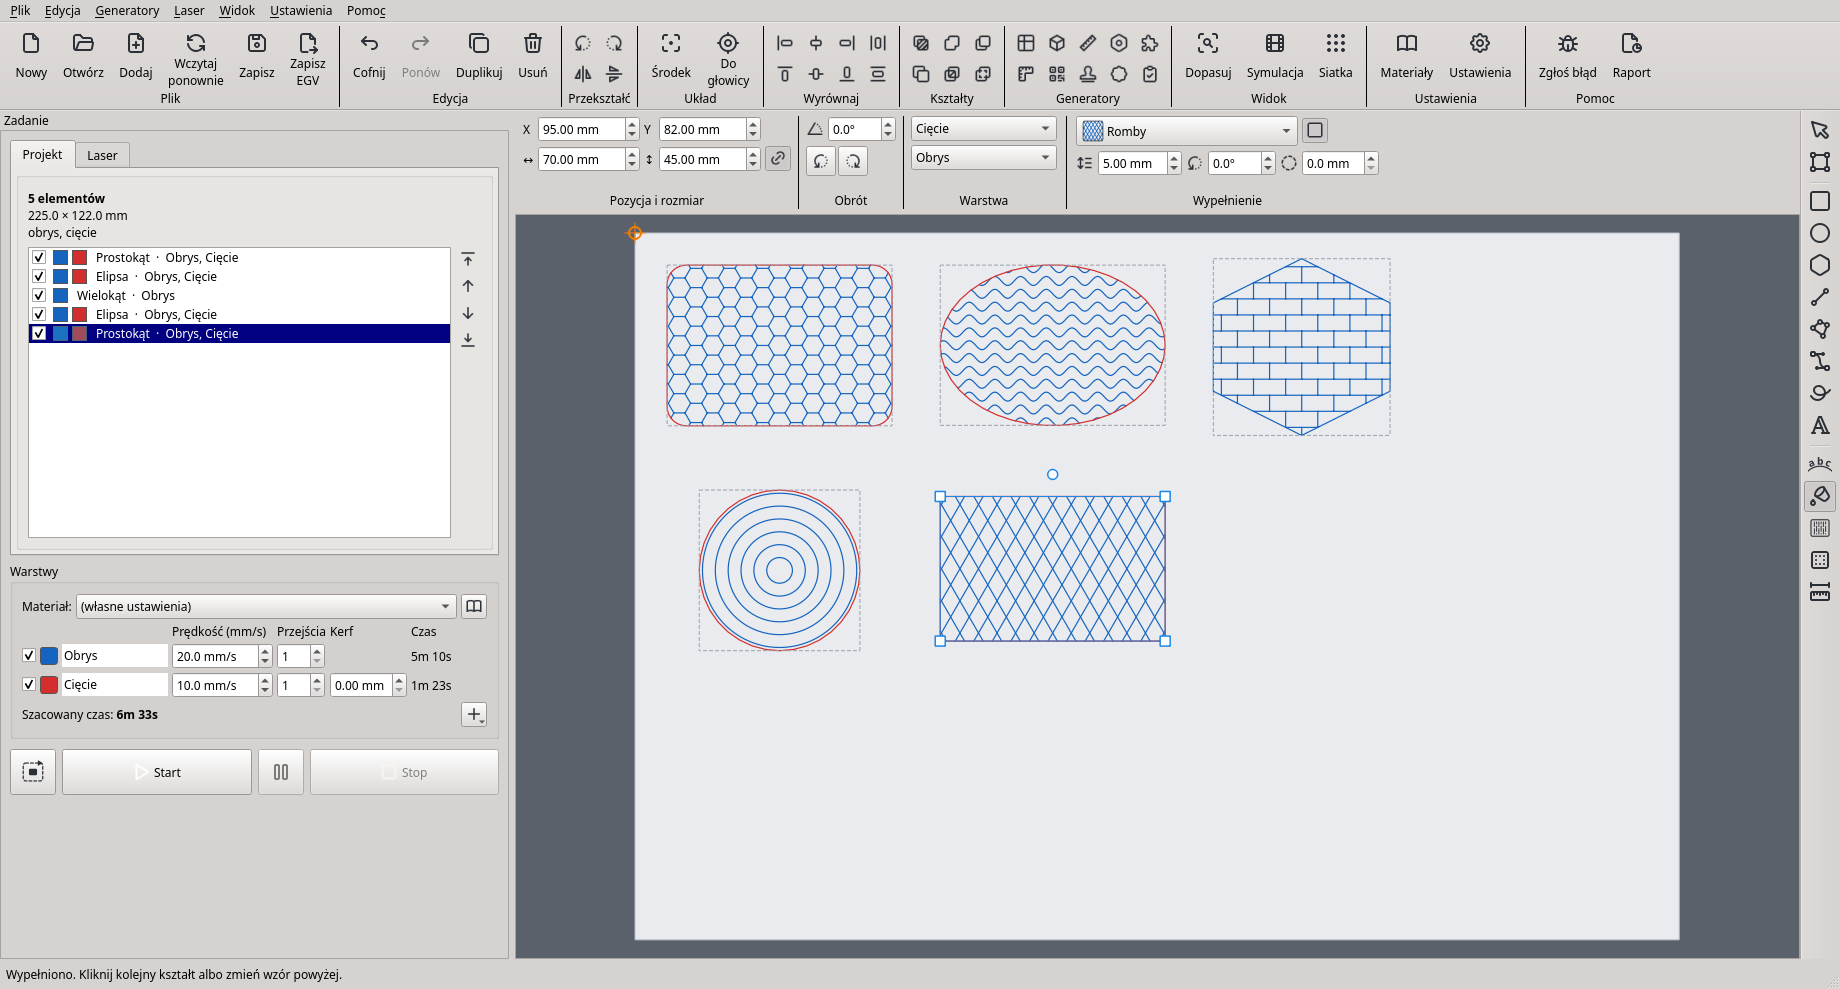
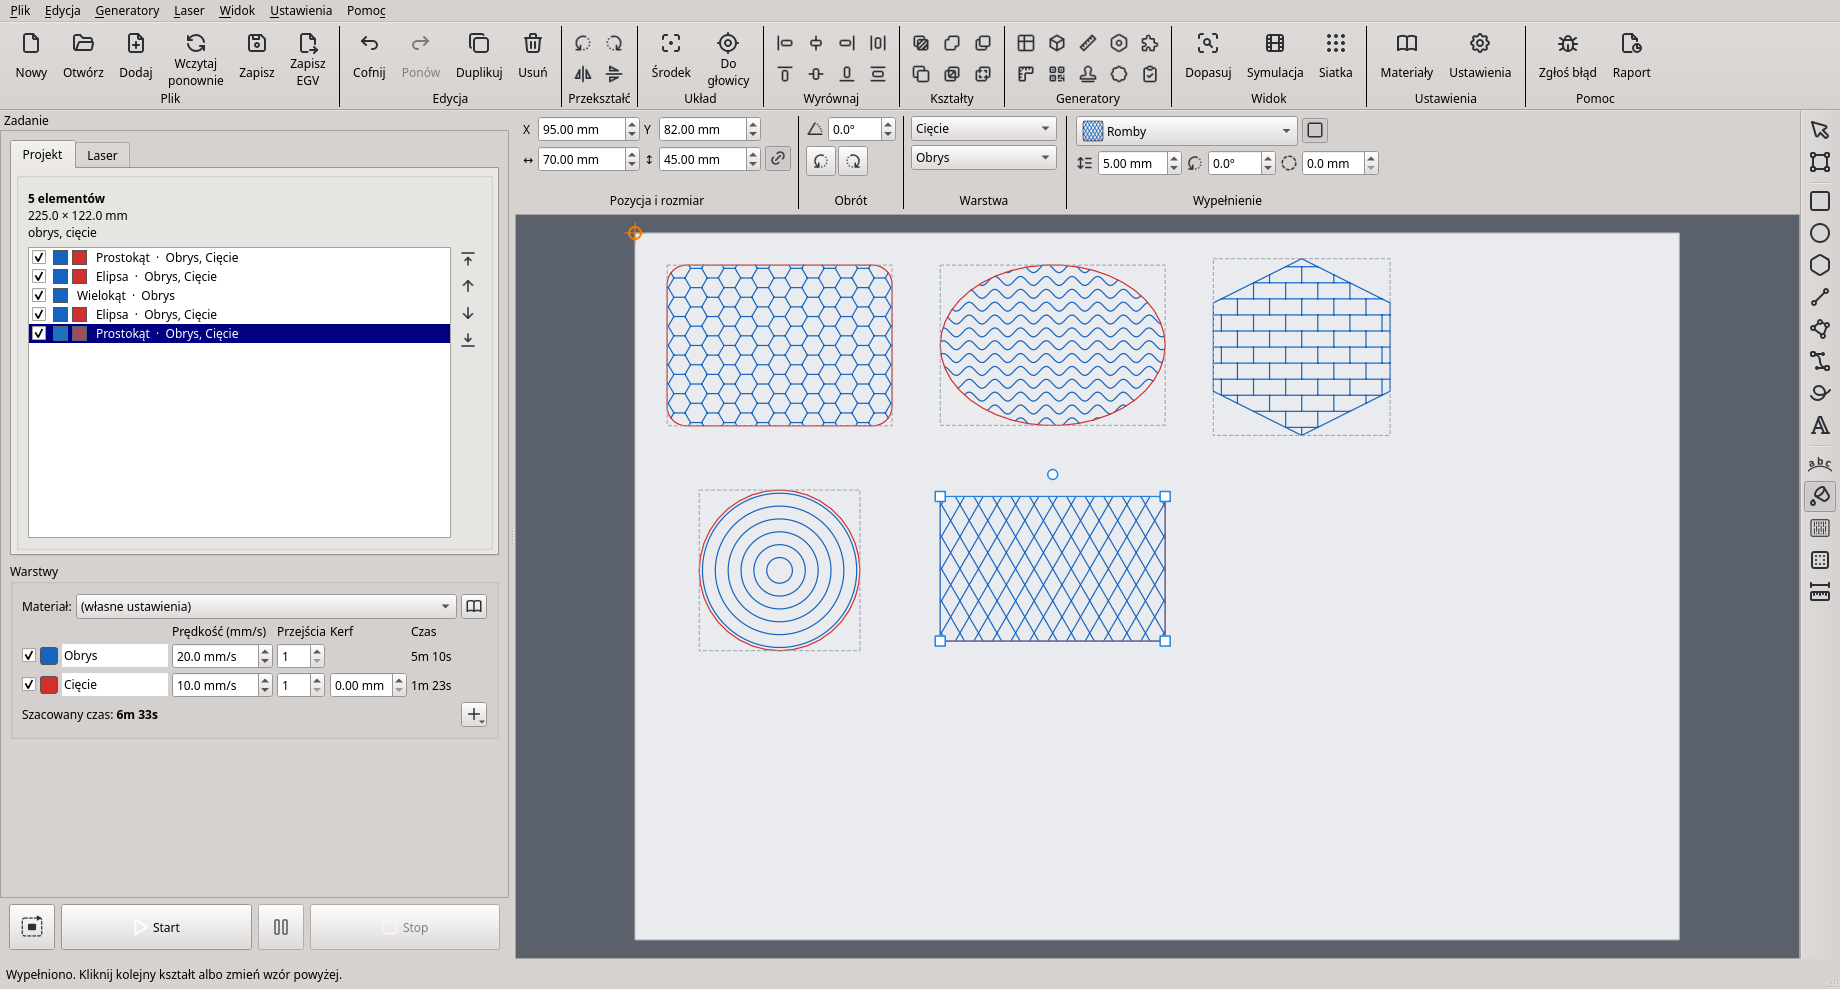
The mouse wheel changes a number field or list only after it was clicked (scrolling the left panel changed layer speeds on small screens); Start, Pause and Stop pinned below the scrolling panel; tests, release-test step, guide; ROADMAP: option 'each design separately' for raster layers described; to

Changed region(s): [[0.0, 0.91, 0.2788, 0.9707], [0.0, 0.7583, 0.2788, 0.7887]]

diff --git a/kerfly/gui/wheelguard.py b/kerfly/gui/wheelguard.py
@@ -1,0 +1,72 @@
+"""
+The mouse wheel changes a number field or a drop-down list only after it was
+clicked (it has the keyboard focus). Passing over a field while scrolling a
+panel scrolls the panel and leaves the value alone: before, scrolling down to
+Start on a small screen changed the speeds of the layers on the way (a user's
+report 2026-11-12).
+
+Copyright (C) 2026 Kerfly contributors
+Licensed under the GNU General Public License v3 or later. See LICENSE.
+"""
+from PySide6.QtCore import QEvent, QObject, QPointF, Qt
+from PySide6.QtGui import QWheelEvent
+from PySide6.QtWidgets import QAbstractScrollArea, QAbstractSpinBox, QApplication, QComboBox
+
+GUARDED = (QAbstractSpinBox, QComboBox)
+
+
+def _guarded(obj):
+    """The number field or list a wheel event over obj would change (obj or
+    its parent, e.g. the text part of a number field), or None."""
+    if isinstance(obj, GUARDED):
+        return obj
+    parent = obj.parent() if isinstance(obj, QObject) else None
+    return parent if isinstance(parent, GUARDED) else None
+
+
+class WheelGuard(QObject):
+    def eventFilter(self, obj, event):
+        kind = event.type()
+        if kind == QEvent.Polish and isinstance(obj, GUARDED):
+            # the wheel must not give the focus (Qt's default for these widgets)
+            if obj.focusPolicy() == Qt.WheelFocus:
+                obj.setFocusPolicy(Qt.StrongFocus)
+        elif kind == QEvent.Wheel:
+            field = _guarded(obj)
+            if field is not None and not field.hasFocus():
+                # not clicked: the panel underneath scrolls instead
+                area = _scroll_area(field)
+                if area is None:
+                    event.ignore()                   # goes on to the parent (real wheel events)
+                    return True
+                viewport = area.viewport()
+                pos = viewport.mapFromGlobal(event.globalPosition().toPoint())
+                QApplication.sendEvent(viewport, QWheelEvent(
+                    QPointF(pos), event.globalPosition(), event.pixelDelta(), event.angleDelta(),
+                    event.buttons(), event.modifiers(), event.phase(), event.inverted()))
+                event.accept()
+                return True
+        return False
+
+
+def _scroll_area(widget):
+    w = widget.parentWidget()
+    while w is not None:
+        if isinstance(w, QAbstractScrollArea):
+            return w
+        w = w.parentWidget()
+    return None
+
+
+_guard = None
+
+
+def install(app=None):
+    """Install the guard once for the whole program."""
+    global _guard
+    app = app or QApplication.instance()
+    if app is None or _guard is not None:
+        return _guard
+    _guard = WheelGuard(app)
+    app.installEventFilter(_guard)
+    return _guard

diff --git a/tests/test_gui.py b/tests/test_gui.py
@@ -565,7 +565,8 @@ def main():
     w = make_window()
     w.resize(1200, 800)
     w.show()
-    app.processEvents()
+    for _settle in range(5):             # the panel measures itself once more after showing: let it settle
+        app.processEvents()              # (the bed view must not move between the clicks)
     w.preview.fit_all()                  # the whole bed in view, also on small test screens
     app.processEvents()
     view = w.preview
@@ -1514,6 +1515,42 @@ def main():
     lw.close()
     check("language from Settings is kept for the next start without Save settings as default",
           lang_ok and lang_back, "(%s)" % ([lang_ok, lang_back, next_start.get("language")],))
+
+    # 52c. small screens (1366 x 768): the wheel changes a number field only after it was clicked
+    # (scrolling down to Start changed the layer speeds on the way, a user's report); Start, Pause
+    # and Stop stay visible below the scrolling panel
+    from PySide6.QtCore import QPoint as _QPoint
+    from PySide6.QtGui import QWheelEvent as _QWheelEvent
+    sw = make_window(grid_mm="0")
+    sw.resize(1366, 700)
+    sw.show()
+    sw._preview_drawn("rectangle", QPointF(20, 20), QPointF(60, 60), False)
+    app.processEvents()
+    speed = next(r["speed"] for r in sw.layers_panel.rows.values() if "speed" in r)
+    bar = sw.panel_scroll.verticalScrollBar()
+
+    def _wheel(widget):
+        pos = QPointF(widget.rect().center())
+        QApplication.sendEvent(widget, _QWheelEvent(pos, QPointF(widget.mapToGlobal(pos.toPoint())), _QPoint(0, 0),
+                                                    _QPoint(0, -120), Qt.NoButton, Qt.NoModifier, Qt.NoScrollPhase,
+                                                    False))
+        app.processEvents()
+    bar.setValue(0)
+    before = speed.value()
+    _wheel(speed)
+    untouched = speed.value() == before and (bar.maximum() == 0 or bar.value() > 0)
+    sw.activateWindow()
+    app.processEvents()
+    speed.setFocus()
+    app.processEvents()
+    _wheel(speed)
+    clicked = speed.value() != before
+    pinned = not sw.panel_scroll.isAncestorOf(sw.btn_start) and sw.btn_start.isVisible()
+    check("wheel over a number field not clicked scrolls the panel; clicked, it changes the value; Start "
+          "stays below the panel", untouched and clicked and pinned,
+          "(%s)" % [untouched, clicked, pinned, bar.value(), bar.maximum()])
+    sw._dirty = False
+    sw.close()
 
     # 53. Linux: connecting fails for want of permission -> Kerfly offers the USB rule (pkexec); with
     # a rule already there, Laser → Allow USB access only says to plug the laser in again

diff --git a/kerfly/gui/main_window.py b/kerfly/gui/main_window.py
@@ -86,6 +86,8 @@ def _num_text(v):
 class MainWindow(QMainWindow):
     def __init__(self, values):
         super().__init__()
+        from kerfly.gui import wheelguard
+        wheelguard.install()            # the wheel changes a field only after it was clicked
         self.values = values
         self.elements = []              # design elements placed on the bed
         self.selected = None            # selected element
@@ -1895,7 +1897,6 @@ class MainWindow(QMainWindow):
         self.bed_warning.setObjectName("bed_warning")
         self.bed_warning.setWordWrap(True)
         self.bed_warning.hide()
-        layout.addWidget(self.bed_warning)
         run = QWidget()
         row = QHBoxLayout(run)
         row.setContentsMargins(0, 4, 0, 0)
@@ -1934,17 +1935,34 @@ class MainWindow(QMainWindow):
         self.btn_stop.setEnabled(False)
         self.btn_stop.clicked.connect(self.stop_job)
         row.addWidget(self.btn_stop, 1)          # Start and Stop share the width equally
-        layout.addWidget(run)
         layout.addStretch(1)
 
         scroll = QScrollArea()
         scroll.setWidget(panel)
         scroll.setWidgetResizable(True)
         self.panel_scroll = scroll
+        # Start, Pause and Stop stay at the bottom, outside the scrolling part: on a small screen
+        # (1366 x 768) the panel scrolls, and reaching Start with the wheel changed the speed fields
+        # the wheel passed over (a user's report 2026-11-12)
+        body = QWidget()
+        body_layout = QVBoxLayout(body)
+        body_layout.setContentsMargins(0, 0, 0, 0)
+        body_layout.setSpacing(0)
+        body_layout.addWidget(scroll, 1)
+        footer = QWidget()
+        footer.setObjectName("run_footer")
+        footer_layout = QVBoxLayout(footer)
+        margins = layout.contentsMargins()
+        footer_layout.setContentsMargins(margins.left(), 2, margins.right(), margins.bottom())
+        footer_layout.setSpacing(2)
+        footer_layout.addWidget(self.bed_warning)
+        footer_layout.addWidget(run)
+        body_layout.addWidget(footer)
+        self.run_footer = footer
         dock = QDockWidget(_("Job"), self)
         dock.setObjectName("job_dock")
         dock.setFeatures(QDockWidget.NoDockWidgetFeatures)
-        dock.setWidget(scroll)
+        dock.setWidget(body)
         self.addDockWidget(Qt.LeftDockWidgetArea, dock)
         for key in ("x", "y", "w", "h"):
             self._unit_widgets.append((self.sel_fields[key], "len", None, 1.0))

diff --git a/tests/test_release.py b/tests/test_release.py
@@ -229,6 +229,16 @@ class Session:
         QTest.mouseClick(widget, Qt.LeftButton)
         self.settle()
 
+    def wheel(self, widget, notches=-1):
+        """Turn the mouse wheel over a widget (negative: towards the user)."""
+        from PySide6.QtCore import QPoint, QPointF
+        from PySide6.QtGui import QWheelEvent
+        pos = QPointF(widget.rect().center())
+        QApplication.sendEvent(widget, QWheelEvent(pos, QPointF(widget.mapToGlobal(pos.toPoint())), QPoint(0, 0),
+                                                   QPoint(0, 120 * notches), Qt.NoButton, Qt.NoModifier,
+                                                   Qt.NoScrollPhase, False))
+        self.settle()
+
     def type_number(self, spin, value):
         """Click into a number field, select it, type the number, press Enter."""
         self.touched.add(id(spin))
@@ -858,6 +868,13 @@ def part_layers(s):
                           "layer add"}
     s.step("layers: type a speed", lambda: s.type_number(row()["speed"], 12.5), undo=False,
            check=lambda: (abs(new.speed - 12.5) < 1e-6, "speed %s" % new.speed))
+
+    def wheel_without_click():
+        s.click_bed(*s.element_at(w.elements[0]))         # the keyboard focus goes to the bed view
+        s.wheel(row()["speed"], -2)
+    s.step("layers: the wheel over the speed without clicking it changes nothing", wheel_without_click,
+           change=None, check=lambda: (abs(new.speed - 12.5) < 1e-6 and abs(row()["speed"].value() - 12.5) < 1e-6,
+                                       "speed %s, field %s" % (new.speed, row()["speed"].value())))
     s.step("layers: type the kerf of the cut layer", lambda: s.type_number(row()["kerf"], 0.15), undo=False,
            check=lambda: (abs(new.kerf - 0.15) < 1e-6, "kerf %s" % new.kerf))
     passes = lambda: next(sp for sp in panel.grid_box.findChildren(QSpinBox)

diff --git a/ROADMAP.md b/ROADMAP.md
@@ -87,6 +87,41 @@ below point to files in MeerK40t at commit `d511944e0` (September 2026).
 | ~~Material library (saved speed/power per material)~~ (done); export / import (done) | `gui/materialmanager.py`, `core/elements/materials.py` |
 | ~~Toolbar~~ (done; every new command gets a button), themes | `gui/ribbon.py`, `gui/themes.py` |
 
+## Optional: engrave each design separately (raster layers)
+
+Asked for by a user (2026-11-12; see also issue #2). Planned as an optional
+function, for later.
+
+**The problem.** On one raster layer all the pictures on the bed are joined
+into one image. The head engraves it row by row, and every row runs from the
+first dark point to the last one, across the empty gaps between the designs.
+With designs side by side (names on several products in a row) most of the
+time goes on driving over the gaps: two 50 × 50 mm pictures 90 mm apart take
+31.8 min on one layer, 17.0 min when each is engraved on its own.
+
+**What works today.** Put each design on its own raster layer (Layers panel:
+**+** → Raster engrave, then the Layer list above the bed): layers run one
+after another in the same job, so it is fast, but with many designs it means
+many layers to make and keep track of.
+
+**The planned option (B).** A tick box at a raster layer: **"Each design
+separately"**. With it on, the designs on that layer are engraved one after
+another, each in its own area (all with this layer's speed, power and
+passes), as if each had its own layer, but without making layers. Still one
+job, one Start.
+
+- Which designs are "one": each element on the bed (a group counts as one).
+- Order: as in the element list (the same order as the other layers).
+- The time in the Layers panel, the simulation and the job all follow it.
+- Off by default: with the designs touching or overlapping it gives nothing.
+- Release-test step: two pictures with a gap on a layer with the option, the
+  laser data and the time compared with two separate layers (must be equal).
+
+**Considered and left out for now (A):** putting every newly added design on a
+new raster layer by itself (reusing an empty one). Gives the same time, and
+also separate speeds per design, but the Layers panel fills up with layers;
+only if users need different settings per design.
+
 ## Run one kind of work: Engrave, Outline, Cut buttons
 
 Asked for by a user (2026-11-10), as K40 Whisperer's three buttons (Raster

diff --git a/docs/guide.md b/docs/guide.md
@@ -391,7 +391,10 @@ out of the job.
    off "Boundary trace as a rectangle" to follow the outline instead).
 4. **Start** (F9) runs all ticked layers. **Pause** stops the laser for a
    moment and the same button resumes it. **Stop** (Esc) ends the job
-   immediately; then press **Home** before the next job.
+   immediately; then press **Home** before the next job. These buttons stay
+   at the bottom of the left panel, also when it scrolls on a small screen.
+   The mouse wheel changes a number field or a list only after you click
+   into it, so scrolling the panel cannot change a speed by accident.
 5. The progress bar at the bottom shows the percentage of the current step
    (preparing the data, sending it to the laser).
 

diff --git a/CHANGELOG.md b/CHANGELOG.md
@@ -7,6 +7,18 @@ Version numbers:
   10 when a new module is added);
 - the **third number** goes up for releases that only fix bugs.
 
+## Unreleased
+
+### Changed
+
+- **The mouse wheel changes a number field or a list only after it was
+  clicked.** Scrolling the left panel on a small screen (1366 × 768) to
+  reach Start changed the speeds of the layers the wheel passed over; now the
+  panel scrolls and the values stay. Click into a field to change it with the
+  wheel.
+- **Start, Pause and Stop stay at the bottom of the left panel**, always
+  visible, also when the panel scrolls on a small screen.
+
 ## 1.3.2 (2026-11-11)
 
 (1.3.0 and 1.3.1 were tagged but not released: their Linux package could not be

diff --git a/docs/pl/guide.md b/docs/pl/guide.md
@@ -396,7 +396,10 @@ regulacją mocy) i kolor. Odznaczona warstwa nie wchodzi do zadania.
 4. **Start** (F9) wykonuje wszystkie zaznaczone warstwy. **Pauza** na chwilę
    zatrzymuje laser, a ten sam przycisk wznawia pracę. **Stop** (Esc)
    natychmiast kończy zadanie; potem naciśnij **Bazowanie** przed następnym
-   zadaniem.
+   zadaniem. Te przyciski zostają na dole lewego panelu, także gdy na małym
+   ekranie panel się przewija. Rolka myszy zmienia pole liczbowe albo listę
+   dopiero po kliknięciu w nie, więc przewijanie panelu nie zmieni
+   przypadkiem prędkości.
 5. Pasek postępu na dole pokazuje procent bieżącego kroku (przygotowanie
    danych, wysyłanie do lasera).
 

diff --git a/DEVELOPMENT.md b/DEVELOPMENT.md
@@ -113,6 +113,9 @@ screen). GitHub Actions runs the quick ones on every push (core, GUI,
 translations, laser data, references, `--release-test`), and the built
 installer and AppImage run `--release-test` before they are released.
 
+All of them in one go, before a tag: `tools/run_release_checks.sh` (about
+20 minutes; prints one short block per suite).
+
 ## Laser test card
 
 Before a feature release (1.x.0) the test card is cut on the machine; a
